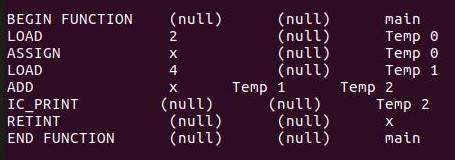
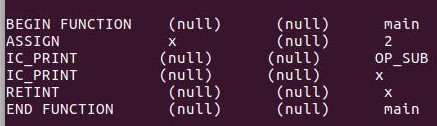
Más pruebas para los cambios y documentación.

diff --git a/Pascal-TDS/documentacion.html b/Pascal-TDS/documentacion.html
@@ -289,9 +289,6 @@
     </div>
 
     <font size=4 face="palatino" color=1c0751>
-
-
-
 		<p>----------------------------------------------------------------------------------------------------------------------------------------------------------------------------------------------------------------------- </p>
     <font size=4 face="palatino" color=1e3bcc>
 		<p> <em> <b> Sentencia while(false). </b> </em> </p>
@@ -301,6 +298,18 @@
 		<div class="imagenes">
       <img src="img-optimization/while.jpg" hspace=50/>
       <img src="img-optimization/while-op.jpg" />
+    </div>
+
+   	<font size=4 face="palatino" color=1c0751>
+		<p>----------------------------------------------------------------------------------------------------------------------------------------------------------------------------------------------------------------------- </p>
+    <font size=4 face="palatino" color=1e3bcc>
+		<p> <em> <b> Sentencia return. </b> </em> </p>
+
+  	<img src="img-optimization/prog-return.jpg" align="center" hspace=465/>
+  	<p> </p>
+		<div class="imagenes">
+      <img src="img-optimization/return.jpg" hspace=50/>
+      <img src="img-optimization/return-op.jpg" />
     </div>
 
 
